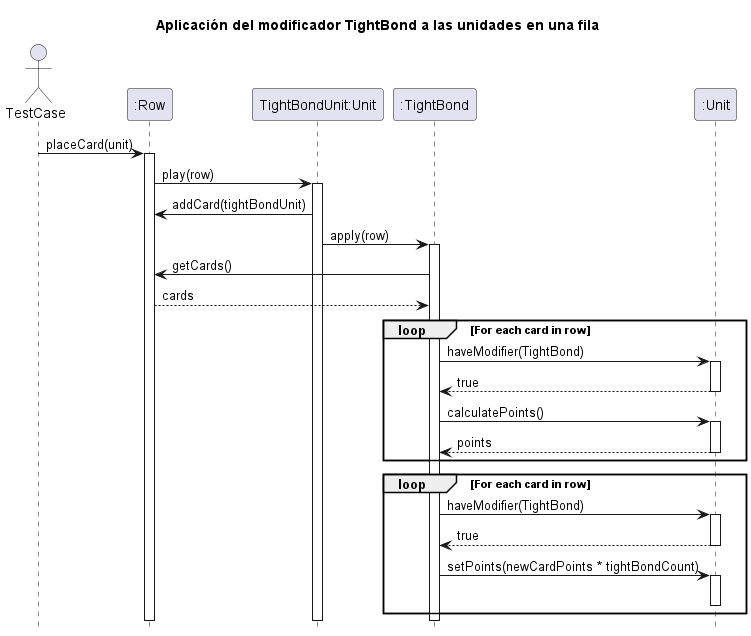
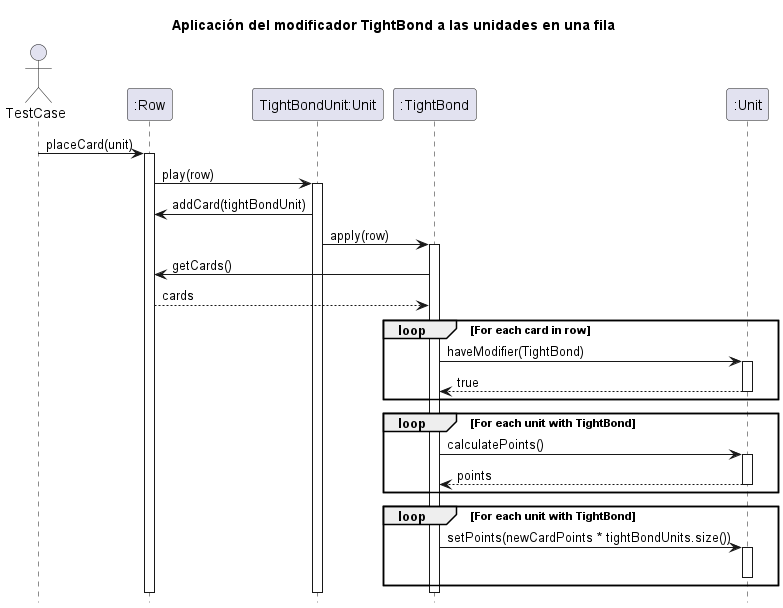
Update TightBond

diff --git a/src/main/java/edu/fiuba/algo3/modelo/TightBond.java b/src/main/java/edu/fiuba/algo3/modelo/TightBond.java
@@ -1,35 +1,33 @@
 package edu.fiuba.algo3.modelo;
 
+import java.util.ArrayList;
 import java.util.List;
 
 public class TightBond implements Modifier {
     @Override
     public void apply(Row row) {
         List<Card> cards = row.getCards();
-        int tightBondCount = 0;
-        int newCardPoints = 0;
+        List<Unit> tightBondUnits = new ArrayList<>();
+        int newCardPoints = Integer.MAX_VALUE;
         
-        // Count how many cards have the TightBond modifier and get the points of the new card
+        // Get all the units with the TightBond modifier
         for (Card card : cards) {
             if (card instanceof Unit && ((Unit) card).haveModifier(this)) {
-                tightBondCount++;
-                // Get the points of the last card (the new one being placed)
-                if (tightBondCount == 1) {
-                    newCardPoints = ((Unit) card).calculatePoints();
-                }
-                else if (tightBondCount > 1 && newCardPoints > ((Unit) card).calculatePoints()) {
-                    newCardPoints = ((Unit) card).calculatePoints();
-                }
+                tightBondUnits.add((Unit) card);
+            }
+        }
+
+        // Get the points of the last card (the new one being placed)
+        for (Unit unit : tightBondUnits) {
+            if (unit.calculatePoints() < newCardPoints) {
+                newCardPoints = unit.calculatePoints();
             }
         }
 
         // If we have multiple cards with TightBond, multiply their points
-        if (tightBondCount > 1) {
-            for (Card card : cards) {
-                if (card instanceof Unit && ((Unit) card).haveModifier(this)) {
-                    Unit unit = (Unit) card;
-                    unit.setPoints(newCardPoints * tightBondCount);
-                }
+        if (tightBondUnits.size() > 1) {
+            for (Unit unit : tightBondUnits) {
+                unit.setPoints(newCardPoints * tightBondUnits.size());
             }
         }
     }
